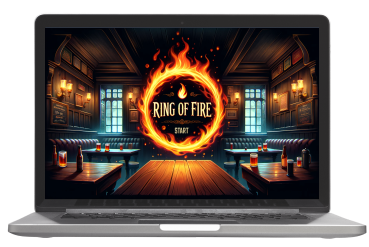
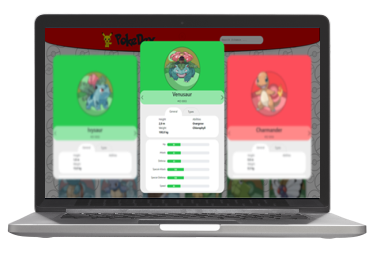
added pokedex

diff --git a/src/app/portfolio-section/portfolio-section.component.html b/src/app/portfolio-section/portfolio-section.component.html
@@ -48,12 +48,12 @@
                 <img src="./assets/img/ringoffire.png" alt="">
             </div>
             <div class="projects-description">
-                <p>Ring of Fire</p>
-                <span class="coding-languages">Angular | Typescript | Firebase</span>
-                <span>Ring of Fire is a digital version of the classic card drinking game, developed as an interactive web application using Angular. This project blends traditional gameplay with modern technology to provide a seamless and engaging user experience.</span>
+                <p>Pokédex</p>
+                <span class="coding-languages">JavaScript | HTML | CSS | API</span>
+                <span>The Pokémon Showcase is an interactive web application for Pokémon fans, dynamically displaying Pokémon data from the PokeAPI. It features images, types, abilities, and physical stats, offering an engaging way to explore and learn about various Pokémon..</span>
                 <div>
-                    <a class="test-btn" target="_blank" mat-raised-button href="https://ringoffire.kaser-mahmood.com/">Live test</a>
-                    <a class="test-btn github-btn" target="_blank" mat-raised-button href="https://github.com/KasZaim/ringoffire.git">Github</a>
+                    <a class="test-btn" target="_blank" mat-raised-button href="https://pokedex.kaser-mahmood.de/">Live test</a>
+                    <a class="test-btn github-btn" target="_blank" mat-raised-button href="https://github.com/KasZaim/PokeDex.git">Github</a>
                 </div>
             </div>
         </div>
